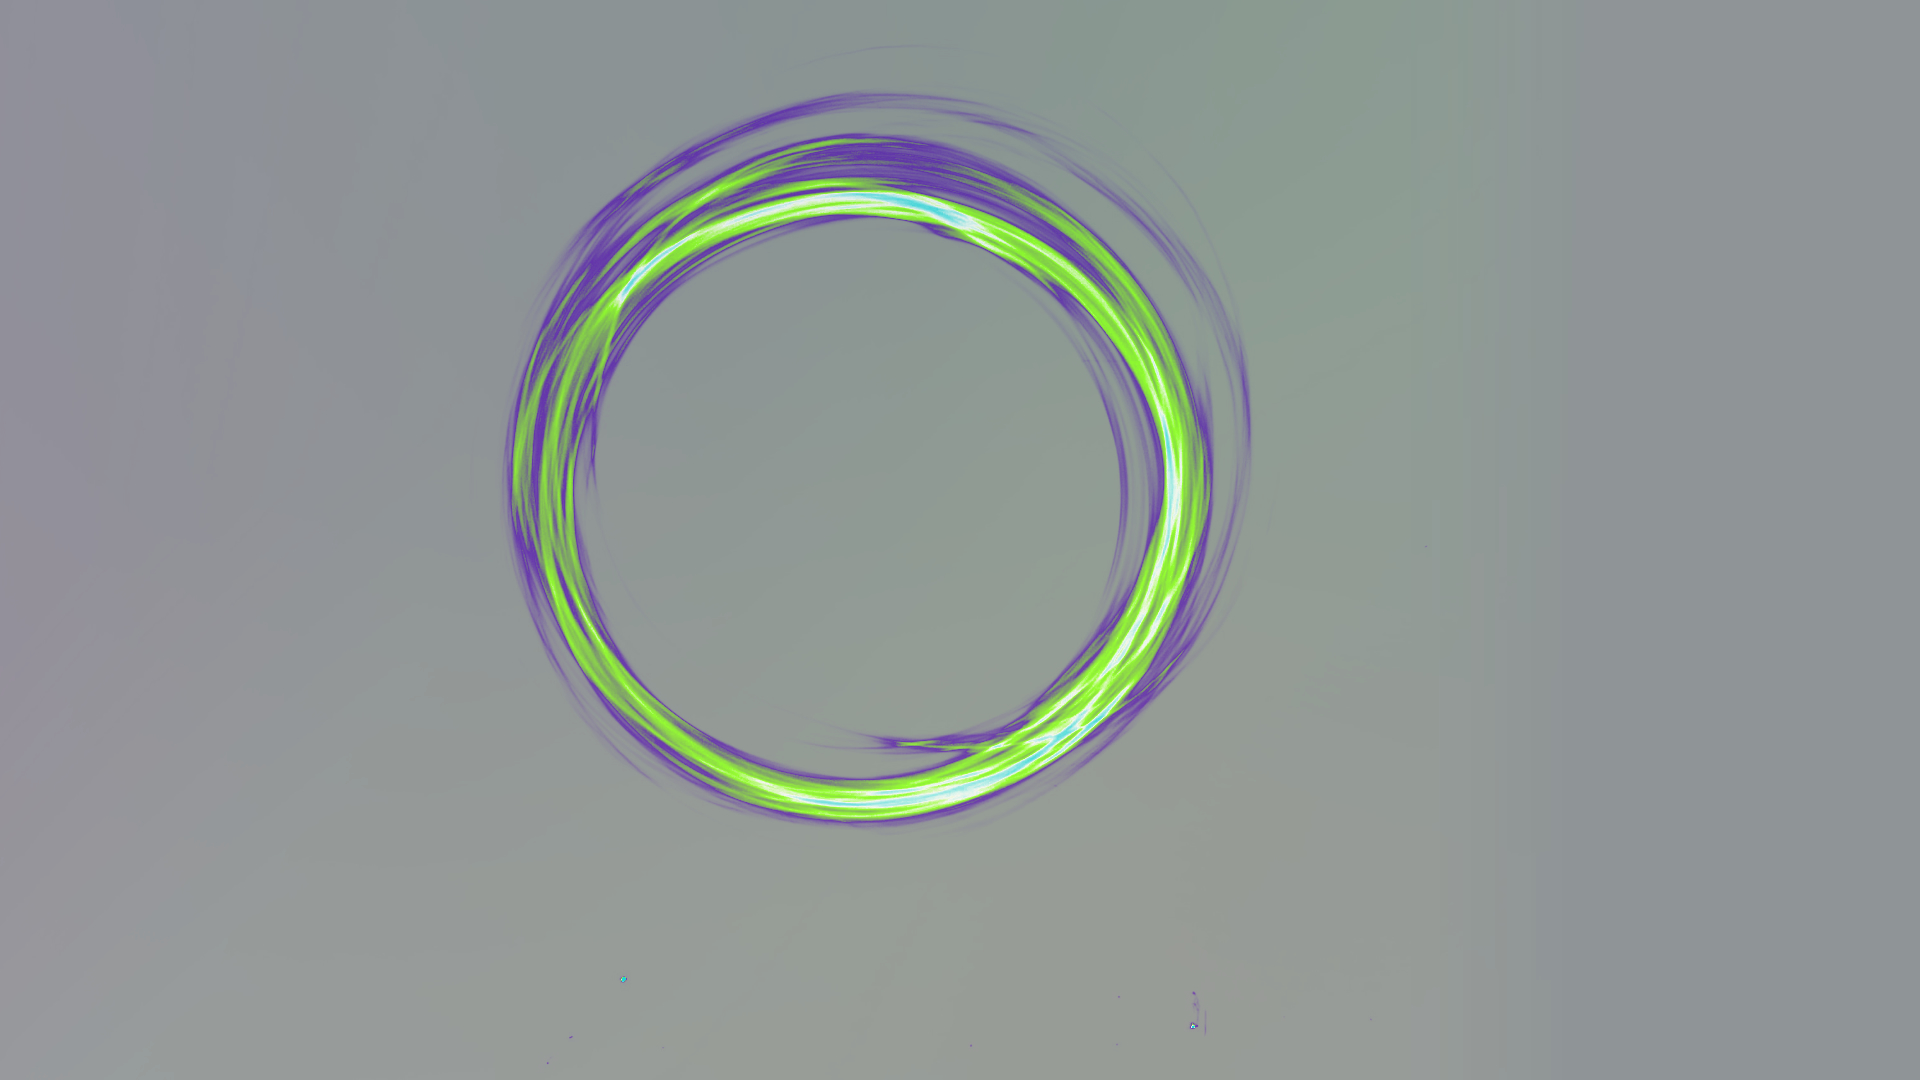
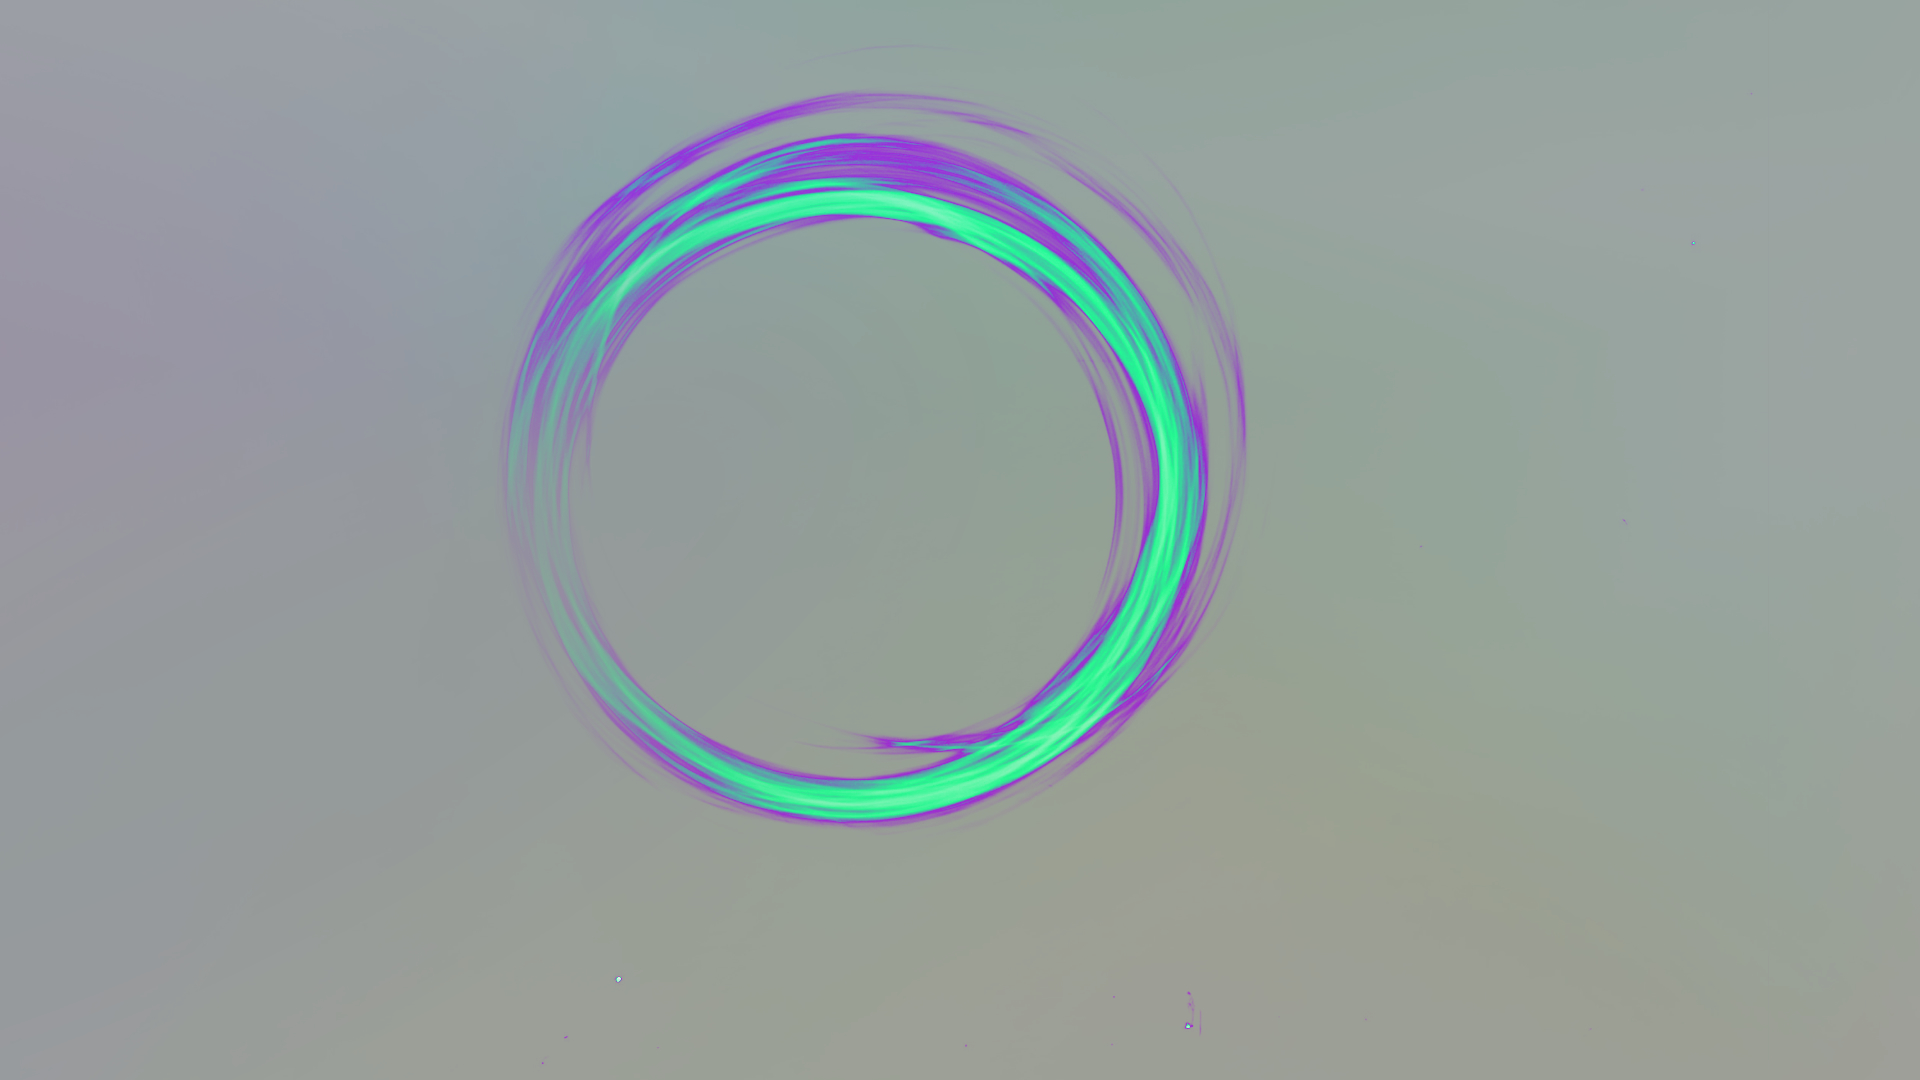
set colours  theme lightblue

Changed region(s): [[0.25, 0.0611, 0.6562, 0.7639]]

diff --git a/css/Header.css b/css/Header.css
@@ -6,36 +6,37 @@
   --nav-item-hover: rgb(247, 105, 0);
   --nav-item-visited-color: rgb(255, 255, 255);
   --nav-holder-background: #000001;
-  --nav-link-color:rgb(255, 255, 255);
-   --title-second: #8a9e9e;
-   --title-thitd: #887a6f;
+  --nav-link-color: rgb(255, 255, 255);
+  --title-second: #8a9e9e;
+  --title-thitd: #887a6f;
 }
 
 :root:has(#blue:checked) {
   --bg-header: url(/images/portfolio_background_header_blueP.jpg);
-    --nav-holder-background:   #16001E;
-
+  --nav-holder-background: #16001e;
 }
 :root:has(#light-blue:checked) {
   --bg-header: url(/images/portfolio_background_header_lightblue.jpg);
-  --nav-item: rgba(209, 197, 181, 0.5);
-  --nav-item-hover: #1CCECA;
-  --nav-holder-background: #B6C0BF;
+  --nav-item: rgb(193, 203, 0,0.3);
+  --nav-item-hover: #1cceca;
+  --nav-holder-background: #b6c0bf;
+    --title-second: #bfcfcf;
+  --title-thitd: #b4afab;
 }
 :root:has(#gray:checked) {
   --bg-header: url(/images/portfolio_background_header_warm.jpg);
   --nav-item-visited-color: #46474c;
   --nav-item: rgba(255, 255, 255, 0.29);
-  --nav-holder-background: #EBE5DD;
-    --nav-item-hover: #1CCECA;
-    --nav-link-color:#46474c;
+  --nav-holder-background: #ebe5dd;
+  --nav-item-hover: #1cceca;
+  --nav-link-color: #46474c;
 }
 :root:has(#black-white:checked) {
   --bg-header: url(/images/portfolio_background_header_Y.jpg);
-    --nav-holder-background: #F8E7D5;
-    /* --nav-item: rgb(194, 84, 0,0.3); */
-    --nav-item-hover: #1CCECA;
-    --nav-item: rgb(28, 206, 202,0.2);
+  --nav-holder-background: #f8e7d5;
+  /* --nav-item: rgb(194, 84, 0,0.3); */
+  --nav-item-hover: #1cceca;
+  --nav-item: rgb(28, 206, 202, 0.2);
 }
 
 .header {
@@ -63,19 +64,16 @@
   top: 0;
   left: 0;
   z-index: 5;
-         /* -webkit-text-fill-color: transparent;
-    -webkit-text-stroke-width: 3px; */
- 
 }
 .title-Portfolio-second {
   position: absolute;
   top: -0.4vh;
   left: 0.2vw;
   z-index: 4;
-   color: var(--title-second);
-   /* text-shadow:0 0 0.25em hsl(0 0% 100% /0.5),0 0 0.1em var(--title-second); */
-       -webkit-text-fill-color: transparent;
-    -webkit-text-stroke-width: 1px;
+  color: var(--title-second);
+
+  -webkit-text-fill-color: transparent;
+  -webkit-text-stroke-width: 1px;
 }
 .title-Portfolio-third {
   position: absolute;
@@ -83,10 +81,10 @@
   left: 0.4vw;
   z-index: 1;
 
-     color: var(  --title-thitd);
-   /* text-shadow:0 0 0.25em hsl(0 0% 100% /0.5),0 0 0.1em var(  --title-thitd); */
-          -webkit-text-fill-color: transparent;
-    -webkit-text-stroke-width: 1px;
+  color: var(--title-thitd);
+
+  -webkit-text-fill-color: transparent;
+  -webkit-text-stroke-width: 1px;
 }
 .title-Name {
   width: 50%;
@@ -153,8 +151,8 @@
   display: flex;
   justify-content: center;
 }
-.nav-link{
-  color:var( --nav-link-color);
+.nav-link {
+  color: var(--nav-link-color);
 }
 
 .nav-item:hover .nav-link {
@@ -231,7 +229,6 @@
     top: -0.2vh;
     left: 0.2vw;
     z-index: 4;
-
   }
   .title-Portfolio-third {
     position: absolute;

diff --git a/css/Projects.css b/css/Projects.css
@@ -4,8 +4,9 @@
   --bg-projects: url(/images/portfolio_background_projects.jpg);
   --bg-cart: rgba(247, 202, 3, 0.09);
   --project-card-bg-hover: rgb(0, 192, 187, 0.08);
-  --projects-title-col:rgb(250, 236, 215);
-  --projects-title-col-bg:rgba(247, 202, 3, 0.09); 
+  --projects-title-col: rgb(250, 236, 215);
+  --projects-title-col-bg: rgba(247, 202, 3, 0.09);
+  --projekt-card-link: rgb(128, 133, 133);
 }
 
 :root:has(#blue:checked) {
@@ -15,15 +16,16 @@
   --bg-projects: url(/images/portfolio_background_Profile_Y.jpg);
   --bg-cart: rgba(252, 252, 252, 0.69);
   --project-card-bg-hover: rgb(0, 192, 187, 0.9);
-   --projects-title-col-bg:rgba(252, 252, 252, 0.69); 
-         --projects-title-col: rgb(128, 133, 133);
+  --projects-title-col-bg: rgba(252, 252, 252, 0.69);
+  --projects-title-col: rgb(128, 133, 133);
 }
 :root:has(#light-blue:checked) {
   --bg-projects: url(/images/portfolio_background_projects_lightblue.jpg);
-  --bg-cart: rgba(247, 105, 0, 0.1);
-  --project-card-bg-hover: rgb(0, 192, 187, 0.5);
-      --projects-title-col: rgb(128, 133, 133);
-        --projects-title-col-bg:rgba(247, 105, 0, 0.1); 
+  --bg-cart: rgba(255, 255, 255, 0.5);
+  --project-card-bg-hover: rgba(255, 255, 255, 0.05);
+  --projects-title-col: rgb(128, 133, 133);
+
+  --projects-title-col-bg: rgba(255, 255, 255, 0.5);
 }
 /* :root:has(#light-blue:checked) {
 
@@ -33,10 +35,9 @@
 :root:has(#gray:checked) {
   --bg-projects: url(/images/portfolio_background_projects_gray.jpg);
   --bg-cart: rgba(252, 252, 252, 0.69);
-  --projects-title-col-bg:rgba(252, 252, 252, 0.69); 
+  --projects-title-col-bg: rgba(252, 252, 252, 0.69);
   --project-card-bg-hover: rgb(0, 192, 187, 0.9);
-    --projects-title-col: rgb(128, 133, 133);
- 
+  --projects-title-col: rgb(128, 133, 133);
 }
 
 .projects {
@@ -60,7 +61,7 @@
   border-width: 1px;
   border-style: solid;
   border-radius: 9px;
-  background: var(  --projects-title-col-bg);
+  background: var(--projects-title-col-bg);
   border-image: linear-gradient(
       180deg,
       rgba(255, 255, 255, 0.3498249299719888) 0%,
@@ -73,7 +74,6 @@
       rgba(255, 255, 255, 0.0945588235294118) 100%
     )
     1;
-  
 }
 .projects-title-first {
   position: absolute;
@@ -172,13 +172,12 @@
   opacity: 1;
 } */
 .projekt-card-link {
-  color: rgb(128, 133, 133);
+  color: var(--projekt-card-link);
 
   text-decoration: none;
 }
 
 .projekt-card-link :hover {
-  color: #00c0bb;
   color: rgb(250, 236, 215);
   text-decoration: none;
 }

diff --git a/css/Contact.css b/css/Contact.css
@@ -7,6 +7,7 @@
   --bg-contact-data: rgb(0, 192, 187, 0.1);
   --bg-contact-data-hover: rgb(0, 192, 187, 0.1);
   --color-contact-link-hover: #00c0bb;
+  --contact-text-color:#fcfcfc;
 }
 
 :root:has(#blue:checked) {
@@ -17,11 +18,12 @@
 }
 :root:has(#light-blue:checked) {
   --bg-contact: url(/images/portfolio_background_contact_lightblue.jpg);
-  --bg-contact-element: rgb(201, 151, 78, 0.2);
-  --bg-contact-title: rgb(201, 151, 78);
-  --bg-contact-data: rgb(201, 151, 78, 0.2);
+  --bg-contact-element: rgb(193, 203, 0, 0.2);
+  --bg-contact-title: rgb(193, 203, 0,0.8);
+  --bg-contact-data: rgb(193, 203, 0, 0.2);
   --color-contact-link-hover: #fcfcfc;
   --bg-contact-data-hover: rgba(255, 255, 255, 0.1);
+   --contact-text-color:#fcfcfc;
 }
 
 :root:has(#gray:checked) {
@@ -117,7 +119,7 @@
   z-index: 4;
 }
 .contact-link {
-  color: rgb(250, 236, 215);
+  color: #fcfcfc;
   width: 100%;
 }
 .contact-data:hover .contact-link {
@@ -132,6 +134,9 @@
   background-size: 3vw;
   background-position: center;
   background-repeat: no-repeat;
+}
+.contact-text-color{
+  color: var(--contact-text-color);
 }
 /* // ... { MEDIA Query} */
 

diff --git a/index.html b/index.html
@@ -209,7 +209,7 @@
               <div class="row">
                 <!-- section one fitst element start -->
                 <div
-                  class="col-md-4 contact-section-one-first font-16 font-Comfortaa-light text-color"
+                  class="col-md-4 contact-section-one-first font-16 font-Comfortaa-light contact-text-color"
                 >
                   <div
                     class="contact-element mt-2 mt-lg-4 d-flex align-items-center ps-4"

diff --git a/style.css b/style.css
@@ -21,7 +21,7 @@
 
 --bg-body:#DFE9EA;
 --text-color:  #46474C;
-
+--second-color:#46474C;
 }
 :root:has(#black-white:checked) {
 
